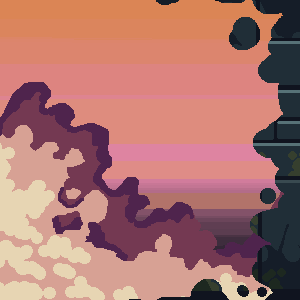
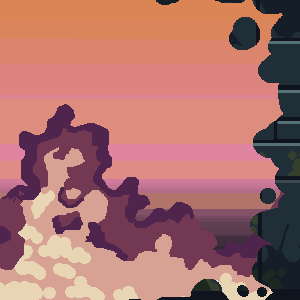
major update

Changed region(s): [[0.0, 0.27, 0.21, 0.9]]

diff --git a/scripts/main.py b/scripts/main.py
@@ -8,7 +8,7 @@ from art import RenderPlayerIdleLeft, RenderPlayerIdleRight, RenderPlayerMoveLef
 from art import Transition_backgrounds, LoadPage, LoadCollisionPage
 
 from display import draw_sunset_bg_full, draw_dungeon_bg_full, draw_sunset_bg_2_full, render_memory_1, render_memory_2, render_memory_3, render_memory_4, render_memory_5, render_memory_6, render_memory_7, render_memory_8, render_memory_9
-from display import draw_sunset_bg_extra_full, render_key1, render_key2, render_key3, render_key4, draw_dungeon_bg_full_2, draw_void_bg_full, draw_void_bg_2_full
+from display import draw_sunset_bg_extra_full, render_key1, render_key2, render_key3, render_key4, draw_dungeon_bg_full_2, draw_void_bg_full, draw_void_bg_2_full, draw_void_bg_3_full
 from display import RenderSunsetToDungeon, RenderDungeonToVoid
 
 from menu import main_menu
@@ -281,7 +281,7 @@ move_left = False
 move_right = False
 
 ground_y = 600
-map_end_x = 11000
+map_end_x = 18600
 
 text_displayed = False
 
@@ -311,9 +311,6 @@ while running:
         if event.type == pygame.VIDEORESIZE:
             WIDTH, HEIGHT = event.w, event.h
             screen = pygame.display.set_mode((WIDTH, HEIGHT), pygame.RESIZABLE)
-
-            # if event.button == 1:
-            #     print(mouse_pos)
         if event.type == pygame.KEYDOWN:
             if event.key == pygame.K_ESCAPE:
                 main_menu()
@@ -342,6 +339,8 @@ while running:
         player_x += player_speed * dt
         move_right = True
         player_facing = "right"
+
+    print(round(player_x))
 
     if key_pressed_s:
         pass
@@ -480,12 +479,12 @@ while running:
         player_x = player_x + 10
         minigame1_started = True
 
-    if player_x >= 6000 and not minigame2_started:
+    if player_x >= 8343 and not minigame2_started:
         game2(screen)
         player_x = player_x + 10
         minigame2_started = True
 
-    if player_x >= 8800 and not minigame3_started:
+    if player_x >= 14296 and not minigame3_started:
         game3(screen)
         player_x = player_x + 10
         minigame3_started = True
@@ -502,11 +501,11 @@ while running:
         move_right = False
         move_left = False
 
-    if not j1_started and player_x > 10120:
+    if not j1_started and player_x > 16865:
         j1_trigger = True
         j1_started = True
 
-    if not j2_started and player_x > 8000:
+    if not j2_started and player_x > 8812:
         j2_trigger = True
         j2_started = True
 
@@ -542,6 +541,7 @@ while running:
         RenderDungeonToVoid(screen, art, camera_x)
         draw_void_bg_full(screen, art, camera_x)
         draw_void_bg_2_full(screen, art, camera_x)
+        draw_void_bg_3_full(screen, art, camera_x)
 
     if not picked_page_1:
         screen.blit(page_pick, (page_pick_rects[0].x - camera_x, page_pick_rects[0].y))
@@ -740,10 +740,10 @@ while running:
         current_bg = "dungeon"
         dusk_fade_triggered = True
     
-    if player_x >= 9700 and current_bg == "dungeon" and in_dungeon and not dungeon_fade_triggered:
+    if player_x >= 11578 and current_bg == "dungeon" and in_dungeon and not dungeon_fade_triggered:
         transition_text_surface = get_font_BOLD(45).render(dungeon_to_void, True, (244, 244, 244))
         transition_text_surface_2 = get_font_BOLD(45).render(dungeon_to_void_2, True, (244, 244, 244))
-        text_timer = 4000
+        text_timer = 11000
         fade.start(1500, reverse=False)
         fade_out_started = True
         current_bg = "void"

diff --git a/scripts/transition.py b/scripts/transition.py
@@ -3,44 +3,6 @@ import pygame
 WIDTH = 1280
 HEIGHT = 720
 
-# class TransitionObj:
-#     def __init__(self, screen_size, SubtractingInt=200):
-#         self.width, self.height = screen_size
-#         self.SubtractingInt = SubtractingInt
-
-#         self.active = False
-#         self.val = 200
-#         self.Surface = pygame.Surface((self.width, self.height))
-#         self.Surface.fill((0, 0, 0))
-#         self.reverse = False
-
-#     def start(self, reverse=False):
-#         self.active = True
-#         self.val = 0 if not reverse else 255
-#         self.reverse = True
-
-#     def update(self, dt):
-#         if not self.active:
-#             return
-        
-#         if not self.reverse:
-#             self.val += 51 * dt
-#             if self.val >= 255:
-#                 self.val = 255
-#                 self.active = False        
-#         else:
-#             self.val -= 51 * dt
-#             if self.val <= 0:
-#                 self.val = 0
-#                 self.active = False
-
-#     def draw(self, screen):
-#         if not self.active:
-#             return
-        
-#         self.Surface.set_alpha(int(self.val))
-#         screen.blit(self.Surface, (0, 0))
-
 class TransitionObj:
     def __init__(self, screen_size, SubtractingInt=200):
         self.width, self.height = screen_size
@@ -61,26 +23,6 @@ class TransitionObj:
         self.wait_time = wait_duration
         self.waiting = False
 
-    # def update(self, dt):
-    #     if not self.active:
-    #         return
-        
-    #     if self.waiting:
-    #         self.wait_time -= int(dt * 1000)
-    #         if self.wait_time <= 0:
-    #             self.active = False
-    #         return
-        
-    #     if not self.reverse:
-    #         self.val += 51 * dt
-    #         if self.val >= 255:
-    #             self.val = 255
-    #             self.waiting = True
-    #     else:
-    #         self.val -= 51 * dt
-    #         if self.val <= 0:
-    #             self.val = 0
-    #             self.waiting = True
     def update(self, dt):
             if not self.active:
                 return

diff --git a/scripts/art.py b/scripts/art.py
@@ -79,8 +79,8 @@ class PlayerMoveRight():
 def RenderPlayerMoveRight():
     Move_right_spritesheet = pygame.image.load(resource_path("player_animations/walk/playerwalknew.png")).convert_alpha()
     Spritesheet = PlayerMoveRight(Move_right_spritesheet)
-    frames = 24
-    width, height = 64, 86
+    frames = 8
+    width, height = 96, 64
     x_offset = 19
     scale = 150 / 64
     colorkey = (10, 10, 10)
@@ -106,8 +106,8 @@ class PlayerMoveLeft():
 def RenderPlayerMoveLeft():
     Move_Left_spritesheet = pygame.transform.flip(pygame.image.load(resource_path("player_animations/walk/playerwalknew.png")).convert_alpha(), True, False)
     Spritesheet = PlayerMoveLeft(Move_Left_spritesheet)
-    frames = 24
-    width, height = 64, 86
+    frames = 8
+    width, height = 96, 64
     x_offset = 19
     scale = 150 / 64
     colorkey = (10, 10, 10)
@@ -125,7 +125,7 @@ def load_sunset_bg_full():
 
 def load_sunset_extra():
     return {
-        "sunset_ex": pygame.transform.scale(pygame.image.load(resource_path("data/sunset_extra.png")).convert_alpha(), (3000, 720))
+        "sunset_ex": pygame.transform.scale(pygame.image.load(resource_path("data/sunset_bg_2.png")).convert_alpha(), (3000, 720))
     }
 
 def load_sunset_bg_2_full():

diff --git a/scripts/display.py b/scripts/display.py
@@ -14,10 +14,10 @@ def draw_sunset_bg_full(screen, art, camera_x):
     screen.blit(art["sunset"], (-camera_x, -150))
 
 def draw_sunset_bg_extra_full(screen, art, camera_x):
-    screen.blit(art["sunset_ex"], (3000 - camera_x, -150))
+    screen.blit(art["sunset_ex"], (4000 - camera_x, -150))
 
 def draw_sunset_bg_2_full(screen, art, camera_x):
-    screen.blit(art["sunset_2"], (4000 - camera_x, -150))
+    screen.blit(art["sunset_2"], (3000 - camera_x, -150))
 
 def draw_dungeon_bg_full(screen, art, camera_x):
     screen.blit(art["dungeon"], (6000 - camera_x, -150))
@@ -30,6 +30,9 @@ def draw_void_bg_full(screen, art, camera_x):
 
 def draw_void_bg_2_full(screen, art, camera_x):
     screen.blit(art["void"], (14932 - camera_x, -150))
+
+def draw_void_bg_3_full(screen, art, camera_x):
+    screen.blit(art["void"], (17768 - camera_x, -150))
 
 # Memories
 def render_memory_1(screen, frame_img, camera_x):
